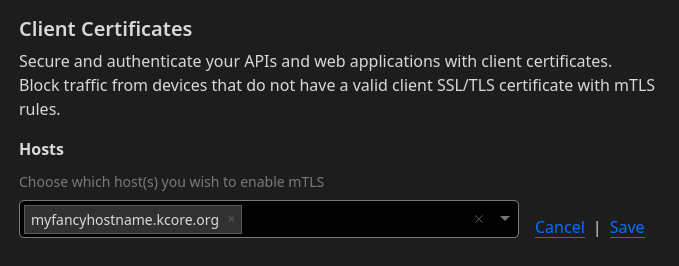
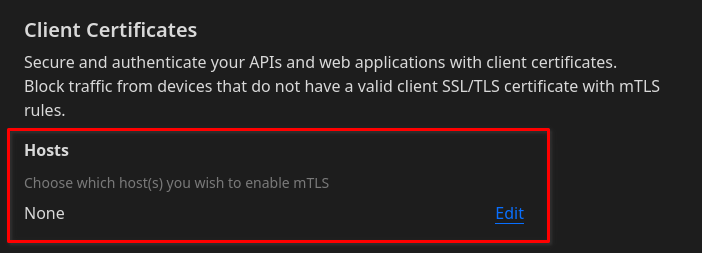
further updates to cloudflare waf post

diff --git a/_posts/2024/2024-06-28-cloudflare-tunnel-mtls-hass.md b/_posts/2024/2024-06-28-cloudflare-tunnel-mtls-hass.md
@@ -23,7 +23,7 @@ One thing I definitely *didn't* want to do was just put it out on the internet, 
 * Bugs happen. In everything.
 * Unless you have a static IP, any IP change will cause issues (fixable with Dynamic DNS)
 
-So I definitely wanted to put a reverse proxy in front of it and preferrably also only make it accessible from my own devices.
+So I definitely wanted to put a reverse proxy in front of it and preferrably also only make it accessible from my own mobile devices (Android based, I don't own any Apple smartphones/tablets).
 
 One thing that exists is [Home Assistant Cloud](https://www.nabucasa.com/), offered by Nabu Casa - the company behind Home Assistant - through which you also support the Home Assistant project. 
 
@@ -71,13 +71,70 @@ You can keep these settings as they are. Click "Create"
 
 ![Screenshot of the Cloudflare interface where you can save the newly created client certificate](/assets/images/2024/06/cloudflare_mtls_2_save_certificate.png)
 
+Next, copy the certificate and the private key in two seperate files and store those somewhere on your filesystem. In my example, I use `mtls.key.pem` for the private key, and `mtls.cert.pem` for the certificate.
+
+After this, you'll see the certificate in the list in the Cloudflare dashboard.
+
+![Screenshot of the Cloudflare interface where you can see the newly created client certificate](/assets/images/2024/06/cloudflare_mtls_3_new_certtificate_added.png)
+
+### Adding the hostname of your tunnel to the mTLS configuration
+
+Another thing you need to do (which I missed and caused me to waste a lot of time) is to add the hostname for which you want cloudflare to issue a "client certificate request" to the browser or app. This is done in the same interface, that inconspicuous "Edit" link that's there...
+
+![Screenshot of the Cloudflare interface, highlighting the "Edit" part where to add hosts to enable mTLS on](/assets/images/2024/06/cloudflare_mtls_4_add_hostname.png)
+
+Once you click "Edit" you can add the full hostname.
+
+![Screenshot of the Cloudflare interface, after filling in a hostname in the field to enable mTLS](/assets/images/2024/06/cloudflare_mtls_5_hostname_added.png)
+
+Click "Save" and you're good to go.
 
 ### Converting the mTLS client certificate
 
-Your browser won't be able to use the PEM certificates you exported earlier
-openssl pkcs12 -export -out client_cert2.pfx -inkey test.key.pem -in test.cert.pem 
+Your browser won't be able to use the PEM certificates you exported earlier,because it requires both the private key and the certificate to be able to add them.
 
-blabla don't forget adding a password because android 
+You can easily convert it using `openssl`:
+```shell
+$ openssl pkcs12 -export -out mtls_client_cert.pfx -inkey mtls.key.pem -in mtls.cert.pem
+```
+
+When asked for a password, specify one to your liking (and don't forget it, you'll need it later)
 
 ### Configuring WAF Rules
+Right now anyone can connect into your hosted Home Assistant URL, regardless if they have a certificate or not. To remedy this, you need to configure some [Web Application Firewall](https://en.wikipedia.org/wiki/Web_application_firewall) rules.
 
+Head over to your account &rarr; your website &rarr; Security &rarr; WAF. There click on "Create Certificate". Next choose "Custom Rules".
+
+![Screenshot of the Cloudflare interface showing there are no custom WAF rules at this time](/assets/images/2024/06/cloudflare_waf_1_initial.png)
+
+Click on "Create rule"
+
+Give the rule a name and under "If incoming requests match..." specify:
+* "Client Certificate Verified" equals "yes" (slider set to green)
+* "Hostname" equals "myfancyhostname.kcore.org"
+
+Under "Then take action" specify "Skip" on "All remaining custom rules".
+
+![Screenshot of the Cloudflare interface with the skip WAF rule](/assets/images/2024/06/cloudflare_waf_2_skip_rule.png)
+
+Hit "Deploy", and "Create rule" to create the second rule to block the traffic.
+
+Once again, give it a name and under "If incoming requests match..." specify:
+* "Hostname" equals "myfancyhostname.kcore.org"
+
+Under "Then take action" specify "Block". Deploy.
+
+![Screenshot of the Cloudflare interface with the block WAF rule](/assets/images/2024/06/cloudflare_waf_3_block_rule.png)
+
+You should end up with two rules like this:
+
+![Screenshot of the Cloudflare interface showing all the WAF rules](/assets/images/2024/06/cloudflare_waf_4_rule_overview.png)
+
+It's important that the skip rule is before the block rule. If not, edit the rules and change the order.
+
+## Adding the client certificate to your clients
+
+### Browsers
+
+
+### Android
